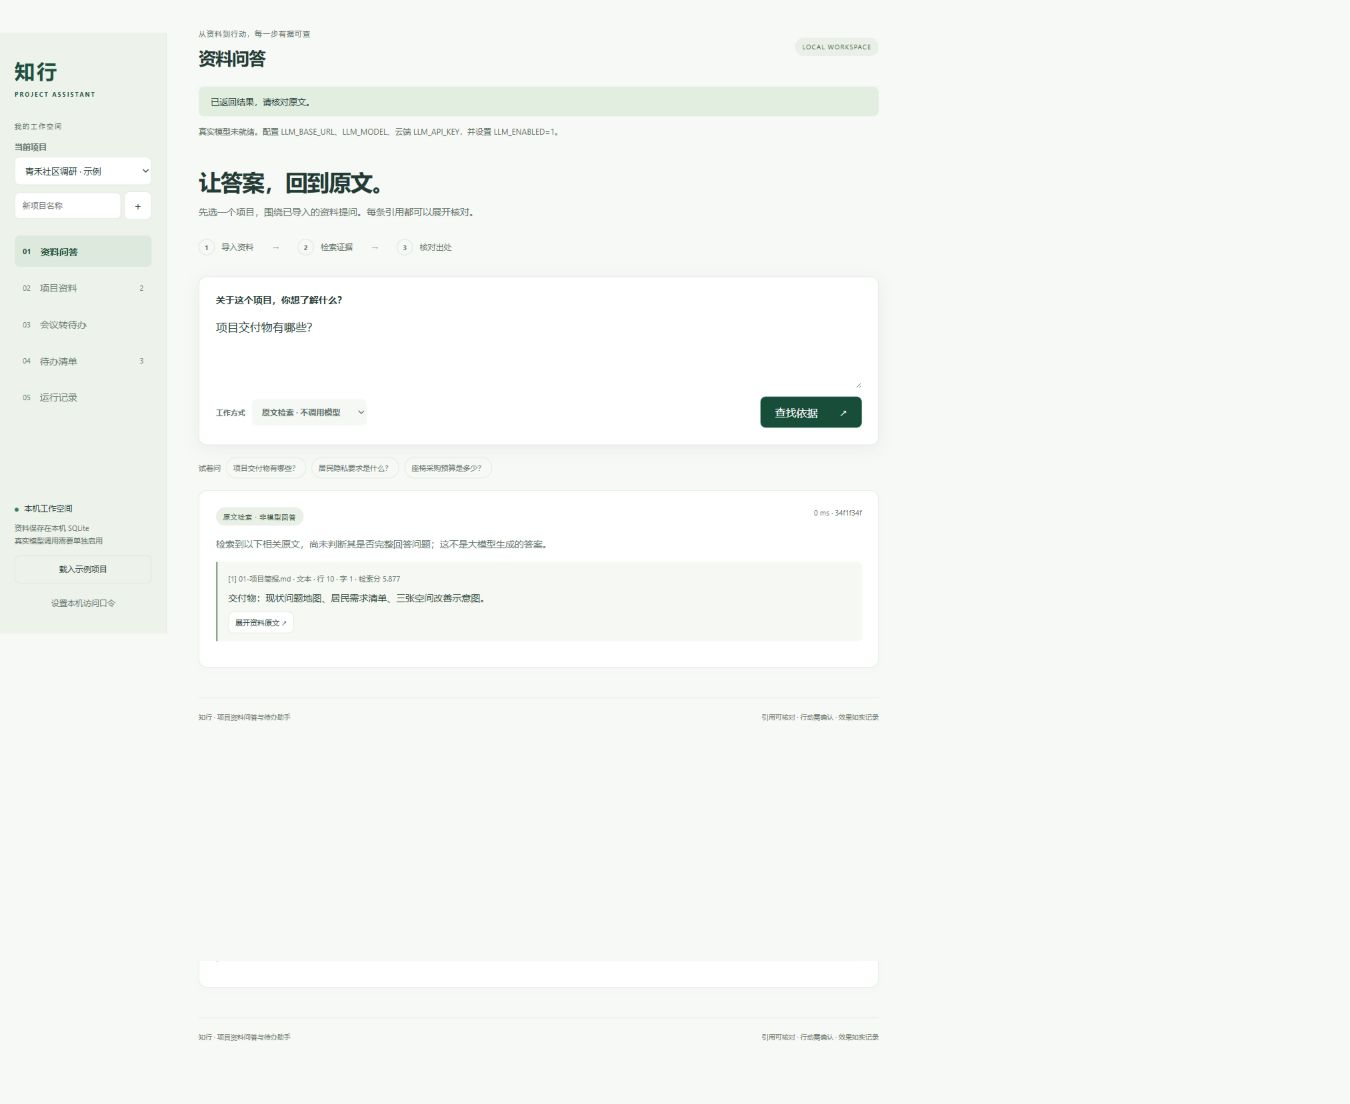
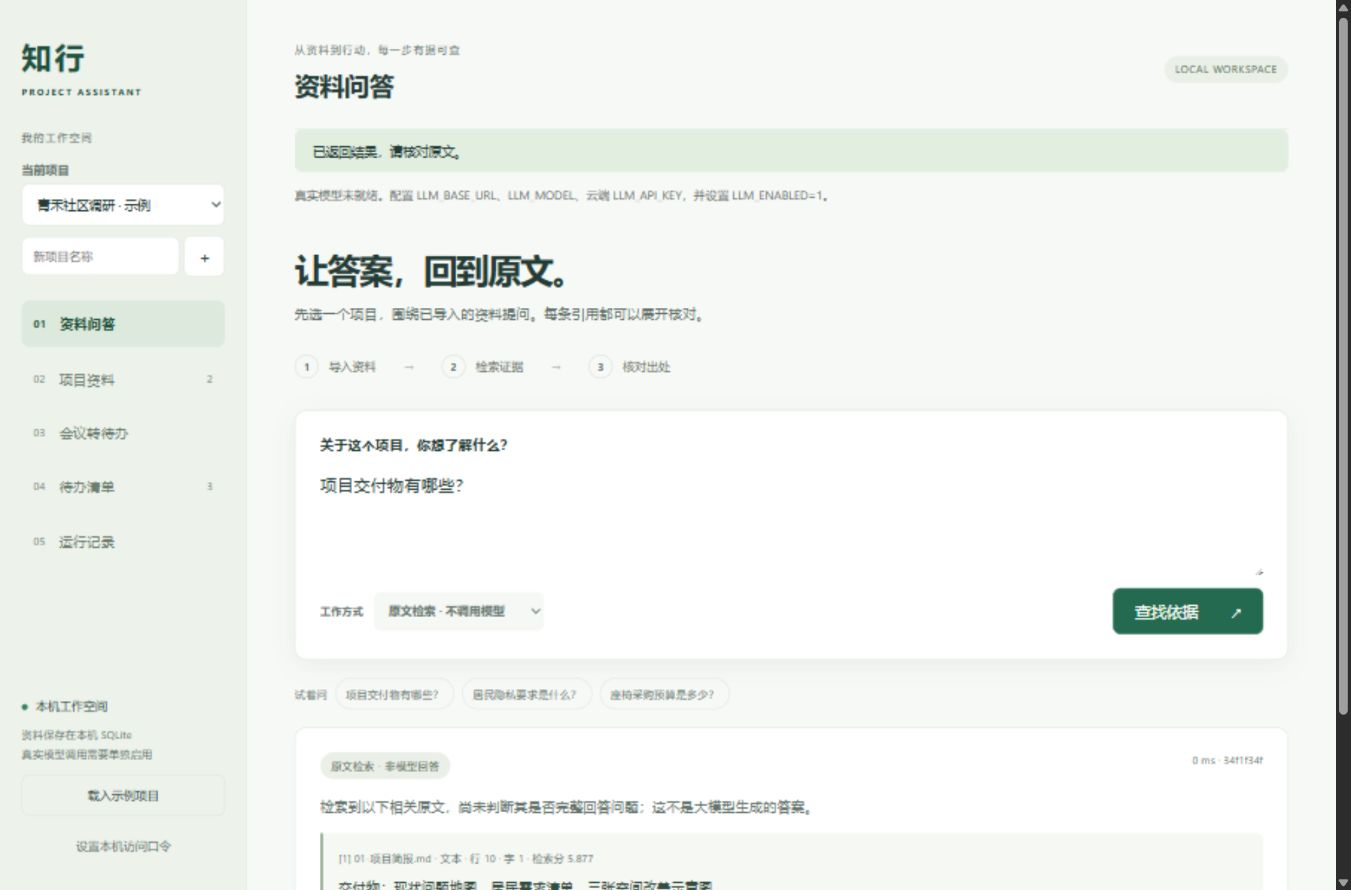
Verify clean startup and refine navigation feedback

diff --git a/static/app.js b/static/app.js
@@ -41,6 +41,7 @@ function projectPath(suffix) {
 }
 function showPage(page) {
   state.page=page;
+  $('#notice').hidden=true;
   document.querySelectorAll('.page').forEach(el=>el.hidden=el.id!==page);
   document.querySelectorAll('.nav').forEach(el=>{el.classList.toggle('active',el.dataset.page===page);if(el.dataset.page===page)el.setAttribute('aria-current','page');else el.removeAttribute('aria-current');});
   $('#page-title').textContent=labels[page];

diff --git a/design/qa.md b/design/qa.md
@@ -26,6 +26,8 @@
 
 `pip check`：依赖一致。测试框架对 httpx 发出上游弃用提示，但当前锁定版本执行通过；不代表未来版本兼容。
 
+干净启动：实际执行 `start.ps1` 新建仓库内 `.venv`、安装锁定依赖并启动 127.0.0.1:8765 成功；使用独立连接核对原有示例资料与待办仍保存。
+
 ## 可访问性与未验证项
 
 输入具备标签、按钮可键盘聚焦、可见焦点样式、状态区域使用 aria-live、弹窗使用原生 dialog，文本不依赖颜色单独表达含义。尚未完成屏幕阅读器人工测试、全量 WCAG 审计或跨浏览器覆盖，不以此声明全面无障碍合规。
